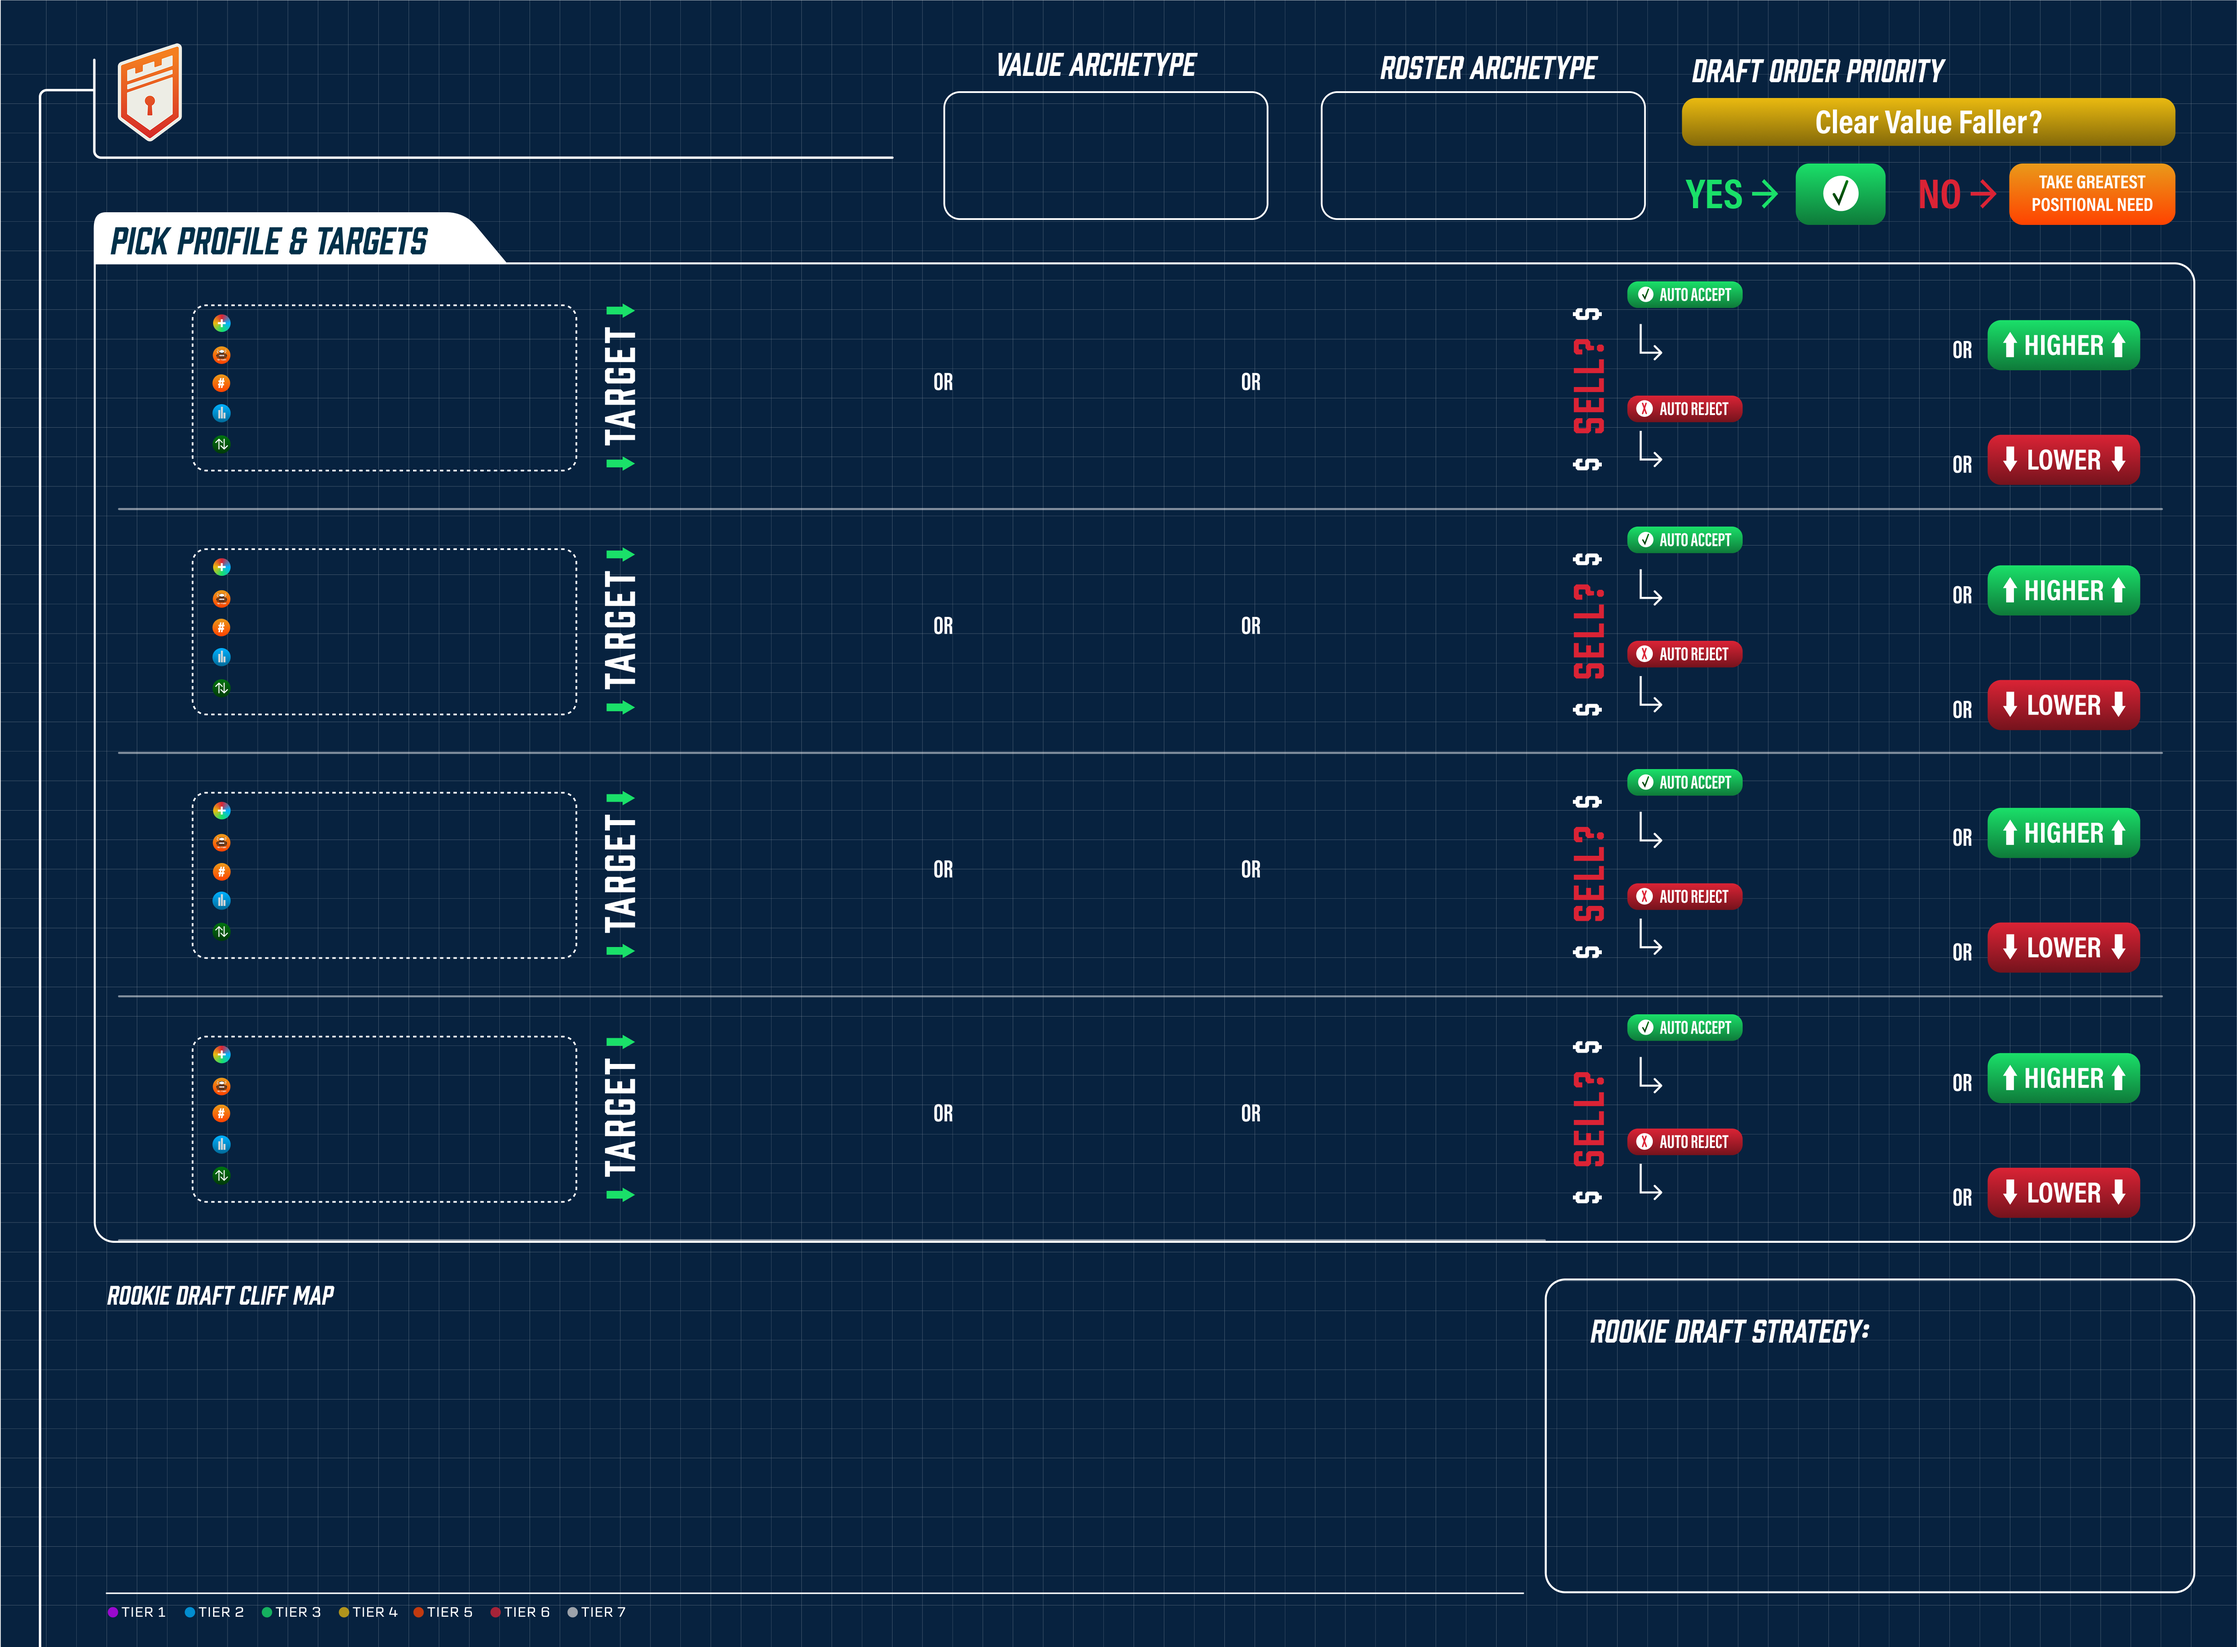
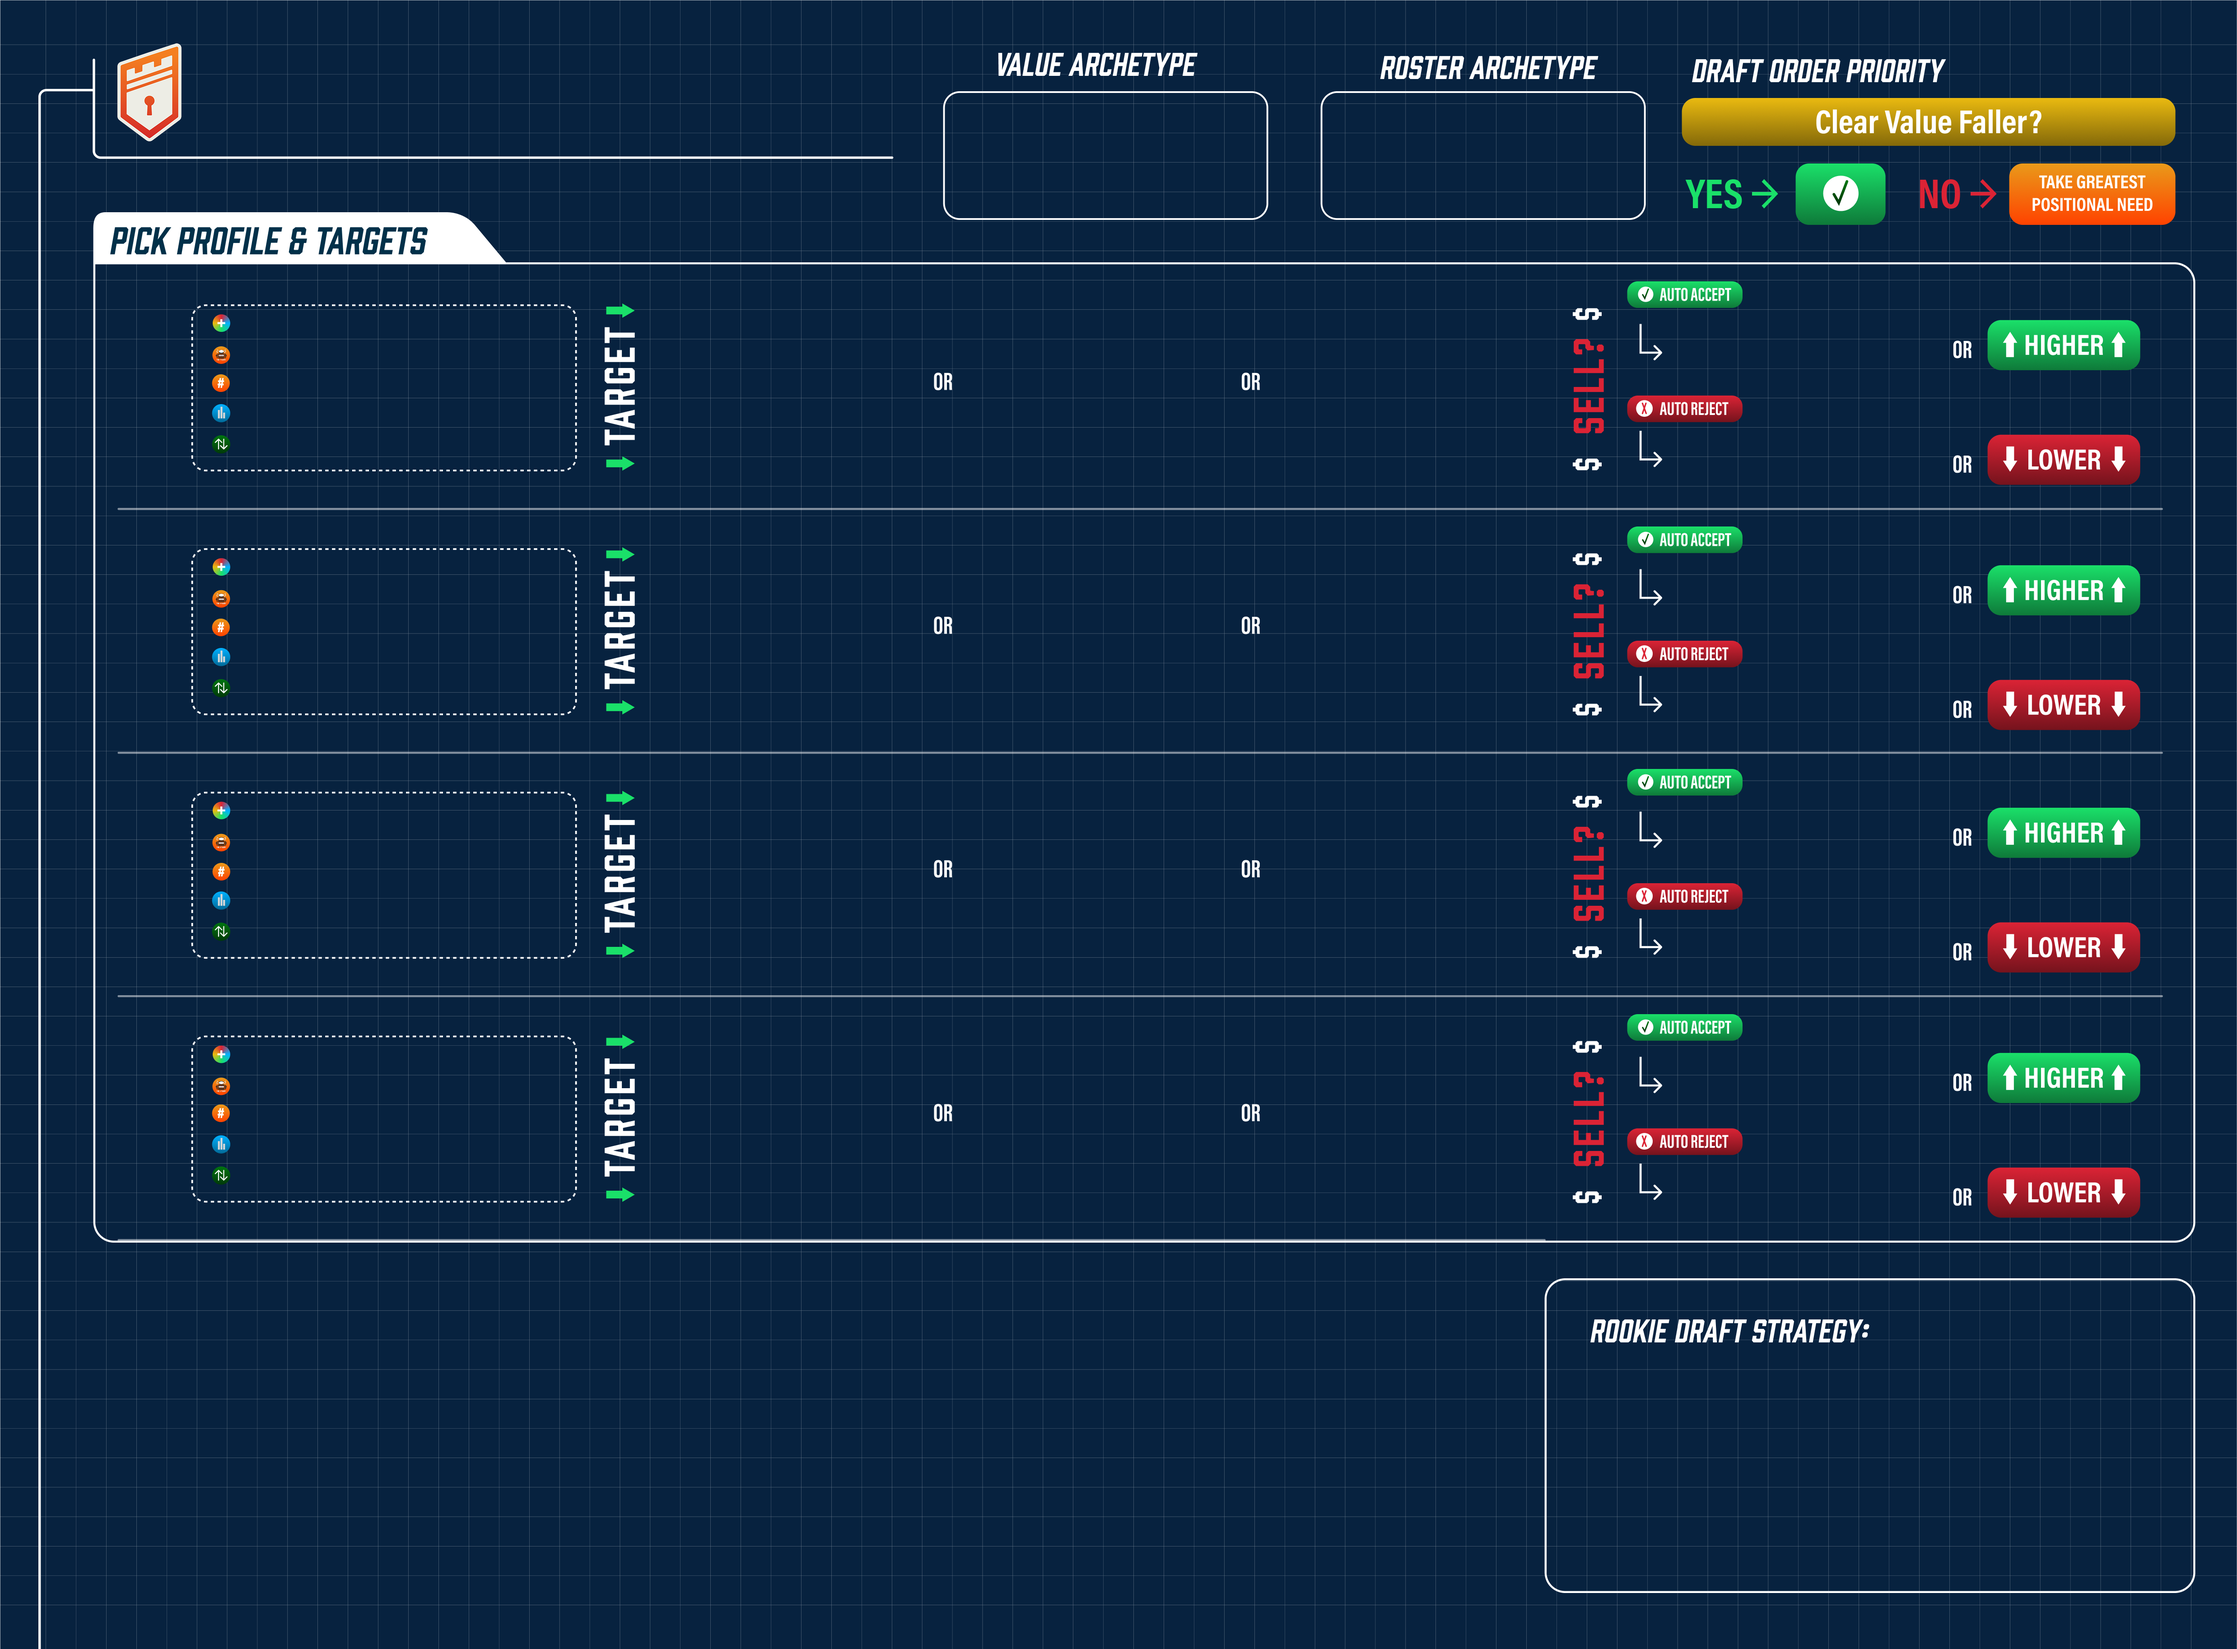
rookie BP almost ready

diff --git a/src/components/Blueprint/NewRookieDraft/NewRookieDraft.tsx b/src/components/Blueprint/NewRookieDraft/NewRookieDraft.tsx
@@ -1,5 +1,5 @@
 import styles from './NewRookieDraft.module.css';
-import {newRookieBg, newRookieCardMap} from '../../../consts/images';
+import {newRookieBg, newRookieCardMap, oneQb10TeamCliffMap, oneQb12TeamCliffMap, oneQb14TeamCliffMap, oneQb8TeamCliffMap, sf10TeamCliffMap, sf12TeamCliffMap, sf14TeamCliffMap, sf8TeamCliffMap} from '../../../consts/images';
 import {
     ValueArchetype,
     RosterArchetype,
@@ -9,7 +9,8 @@ import {QB, RB, TE, WR} from '../../../consts/fantasy';
 import {getPositionalOrder} from '../infinite/BuySellHold/BuySellHold';
 import {FinalPickData} from '../../../sleeper-api/picks';
 import {PlayerCard} from '../NewV1/NewV1';
-import {PickProfile as Pick, RosterPlayer} from '../../../hooks/hooks';
+import {PickProfile as Pick, RosterPlayer, usePlayerData} from '../../../hooks/hooks';
+import { Player } from '../../../sleeper-api/sleeper-api';
 
 type NewRookieDraftProps = {
     teamName: string;
@@ -19,6 +20,7 @@ type NewRookieDraftProps = {
     myPicks: Pick[];
     strategyName: string;
     strategyStatement: string;
+    isSuperFlex: boolean;
 };
 
 function getFontSize(teamName: string) {
@@ -35,7 +37,37 @@ export default function NewRookieDraft({
     myPicks,
     strategyName,
     strategyStatement,
+    isSuperFlex,
 }: NewRookieDraftProps) {
+    const playerData = usePlayerData();
+    if (!playerData) return <></>;
+
+    function getCliffMap() {
+        if (isSuperFlex) {
+            switch (numTeams) {
+                case 8:
+                    return sf8TeamCliffMap;
+                case 10:
+                    return sf10TeamCliffMap;
+                case 12:
+                    return sf12TeamCliffMap;
+                case 14:
+                    return sf14TeamCliffMap;
+            }
+        } else {
+            switch (numTeams) {
+                case 8:
+                    return oneQb8TeamCliffMap;
+                case 10:
+                    return oneQb10TeamCliffMap;
+                case 12:
+                    return oneQb12TeamCliffMap;
+                case 14:
+                    return oneQb14TeamCliffMap;
+            }
+        }
+        return '';
+}
     return (
         <div className={styles.fullBlueprint}>
             <div
@@ -81,21 +113,22 @@ export default function NewRookieDraft({
                     </div>
                 ))}
             </div>
-            {/* <div className={styles.autoAcceptRejectColumn}>
+            <div className={styles.autoAcceptRejectColumn}>
                 {myPicks.slice(0, 4).map((pick, idx) => (
                     <AutoAcceptReject
                         key={idx}
-                        autoAcceptPlayer={players[idx * 2]}
-                        autoRejectPlayer={players[idx * 2 + 1]}
+                        autoAcceptPlayer={playerData[pick.autoAcceptPlayerSleeperId]}
+                        autoRejectPlayer={playerData[pick.autoRejectPlayerSleeperId]}
                     />
                 ))}
-            </div> */}
+            </div>
             <div className={styles.rookieDraftStrategySection}>
                 <RookieDraftStrategy
                     strategyName={strategyName}
                     strategyStatement={strategyStatement}
                 />
             </div>
+            <img src={getCliffMap()} className={styles.cliffMap} />
             <img src={newRookieBg} className={styles.backgroundImg} />
         </div>
     );
@@ -105,18 +138,18 @@ function AutoAcceptReject({
     autoAcceptPlayer,
     autoRejectPlayer,
 }: {
-    autoAcceptPlayer: RosterPlayer;
-    autoRejectPlayer: RosterPlayer;
+    autoAcceptPlayer: Player;
+    autoRejectPlayer: Player;
 }) {
     return (
         <div className={styles.autoAcceptReject}>
             <PlayerCard
-                apiPlayer={autoAcceptPlayer}
+                player={autoAcceptPlayer}
                 getStartingPosition={() => autoAcceptPlayer.position}
                 hideAdp
             />
             <PlayerCard
-                apiPlayer={autoRejectPlayer}
+                player={autoRejectPlayer}
                 getStartingPosition={() => autoRejectPlayer.position}
                 hideAdp
             />
@@ -233,12 +266,12 @@ function PickProfile({pick}: PickProfileProps) {
                 </span>
             </div>
             <div>
-                Bakery Tier:{' '}
+                Bakery Z-Score:{' '}
                 <span className={styles.zScore}>{pick.bakeryZScore}</span>
             </div>
             <div>
-                Bakery Z-Score:{' '}
-                <span className={styles.zScore}>{pick.bakeryZScore}</span>
+                Proj. Player Category:{' '}
+                <span className={styles.zScore}>{pick.projectedPlayerCategory}</span>
             </div>
             <div>
                 Historical Rank{' '}

diff --git a/src/consts/images.ts b/src/consts/images.ts
@@ -356,6 +356,15 @@ import rookiePurgatory from '../assets/rookieDraft/2026/bakeryTiers/purgatory.pn
 import rookieUpside from '../assets/rookieDraft/2026/bakeryTiers/upside.png';
 import rookieUpsideLite from '../assets/rookieDraft/2026/bakeryTiers/upsideLite.png';
 
+import oneQb8TeamCliffMap from '../assets/rookieDraft/2026/cliffMaps/1QB 8 TEAM.png';
+import oneQb10TeamCliffMap from '../assets/rookieDraft/2026/cliffMaps/1QB 10 TEAM.png';
+import oneQb12TeamCliffMap from '../assets/rookieDraft/2026/cliffMaps/1QB 12 TEAM.png';
+import oneQb14TeamCliffMap from '../assets/rookieDraft/2026/cliffMaps/1QB 14 TEAM.png';
+import sf8TeamCliffMap from '../assets/rookieDraft/2026/cliffMaps/SF 8 TEAM.png';
+import sf10TeamCliffMap from '../assets/rookieDraft/2026/cliffMaps/SF 10 TEAM.png';
+import sf12TeamCliffMap from '../assets/rookieDraft/2026/cliffMaps/SF 12 TEAM.png';
+import sf14TeamCliffMap from '../assets/rookieDraft/2026/cliffMaps/SF 14 TEAM.png';
+
 import aaronAnderson from '../assets/rookieDraft/2026/rookieCards/Aaron Anderson.png';
 import antonioWilliams from '../assets/rookieDraft/2026/rookieCards/Antonio Williams.png';
 import barionBrown from '../assets/rookieDraft/2026/rookieCards/Barion Brown.png';
@@ -943,4 +952,12 @@ export {
     newRookieBg,
     rookieTiers,
     newRookieCardMap,
+    oneQb8TeamCliffMap,
+    oneQb10TeamCliffMap,
+    oneQb12TeamCliffMap,
+    oneQb14TeamCliffMap,
+    sf10TeamCliffMap,
+    sf8TeamCliffMap,
+    sf12TeamCliffMap,
+    sf14TeamCliffMap,
 };

diff --git a/src/components/Blueprint/BlueprintModule/BlueprintModule.tsx b/src/components/Blueprint/BlueprintModule/BlueprintModule.tsx
@@ -2123,7 +2123,7 @@ export default function BlueprintModule({
                         >
                             <NewRookieDraft
                                 teamName={rookieBlueprint?.teamName || ''}
-                                numTeams={numTeams}
+                                numTeams={rookieBlueprint?.leagueSettings.numberOfTeams || 0}
                                 valueArchetype={convertStringToValueArchetype(
                                     rookieBlueprint?.valueArchetype || ''
                                 )}
@@ -2142,6 +2142,7 @@ export default function BlueprintModule({
                                     rookieBlueprint?.rookieDraftFeatures
                                         ?.strategyStatement || ''
                                 }
+                                isSuperFlex={rookieBlueprint?.leagueSettings.isSuperFlex || true}
                             />
                         </div>
                     </Modal>

diff --git a/src/hooks/hooks.ts b/src/hooks/hooks.ts
@@ -181,11 +181,14 @@ export type PickProfile = {
     sortOrder: number;
     tier: number;
     bakeryZScore: number | null;
+    projectedPlayerCategory: string;
     historicalRank: number;
     marketValue: string;
     domainVerdict: string;
     autoAcceptPlayerName: string;
     autoRejectPlayerName: string;
+    autoAcceptPlayerSleeperId: number;
+    autoRejectPlayerSleeperId: number;
     targets: Array<{
         id: number;
         playerName: string;

diff --git a/src/components/Blueprint/NewRookieDraft/NewRookieDraft.module.css b/src/components/Blueprint/NewRookieDraft/NewRookieDraft.module.css
@@ -254,3 +254,12 @@
     font-size: 14px;
     font-weight: 700
 }
+
+.cliffMap {
+    position: absolute;
+    top: 800px;
+    left: 60px;
+
+    width: 900px;
+    height: auto;
+}
